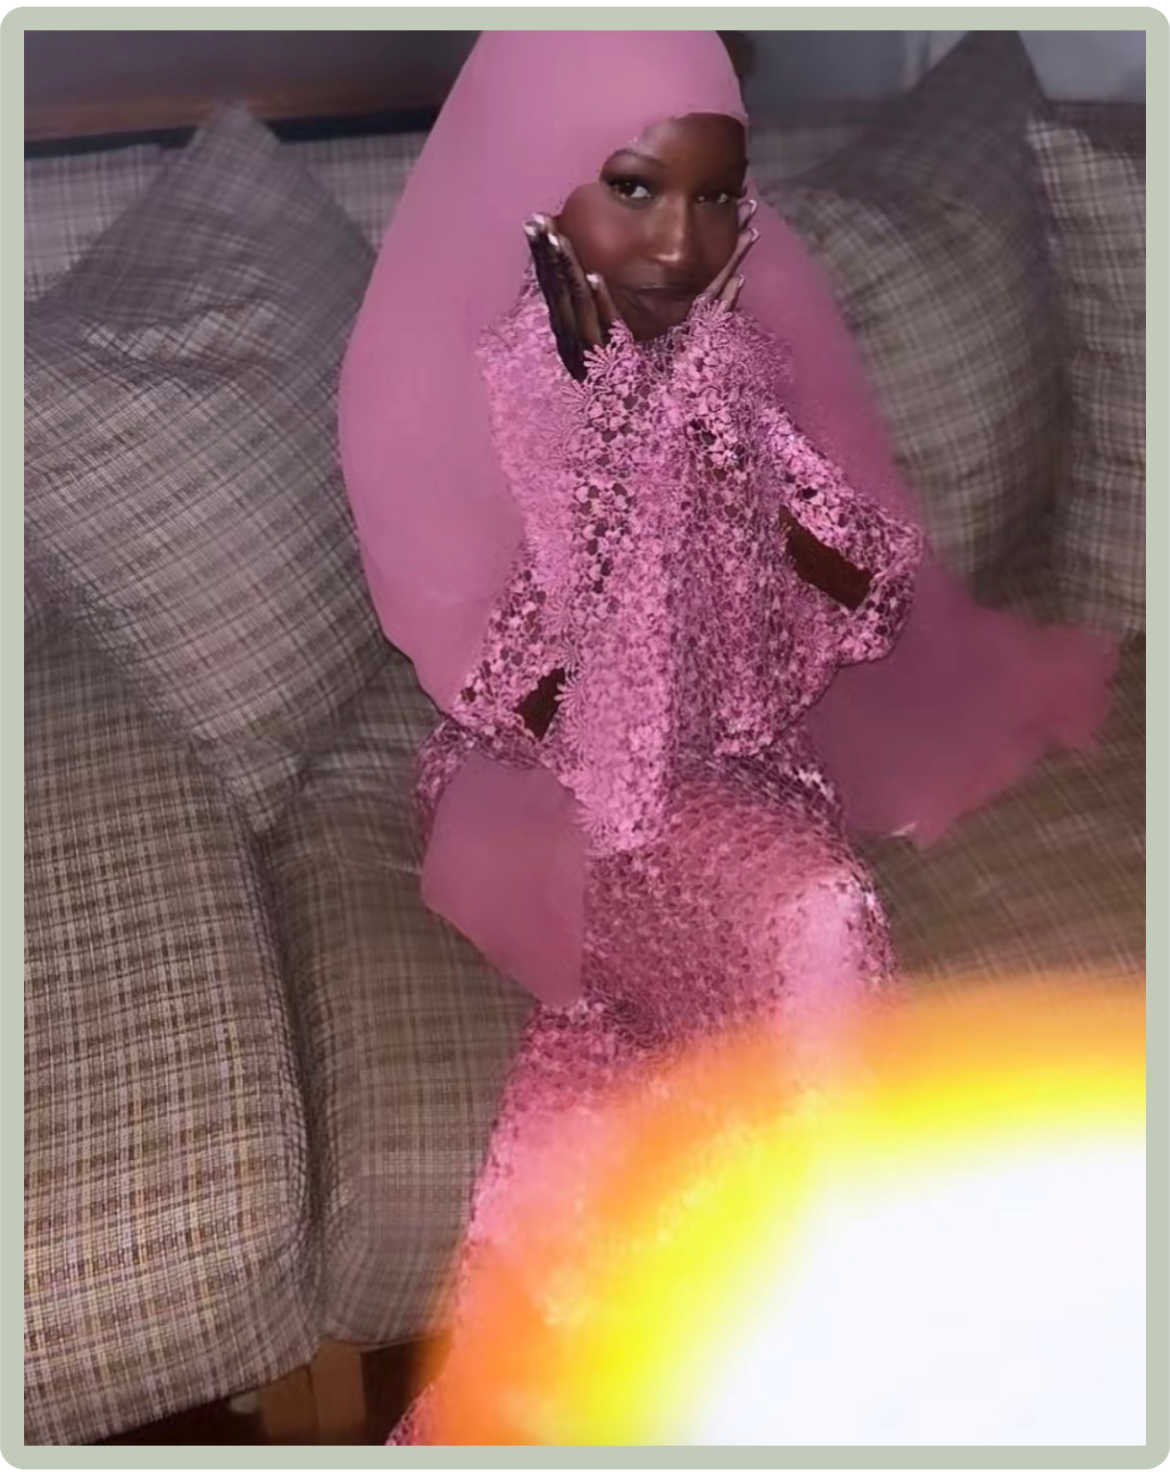
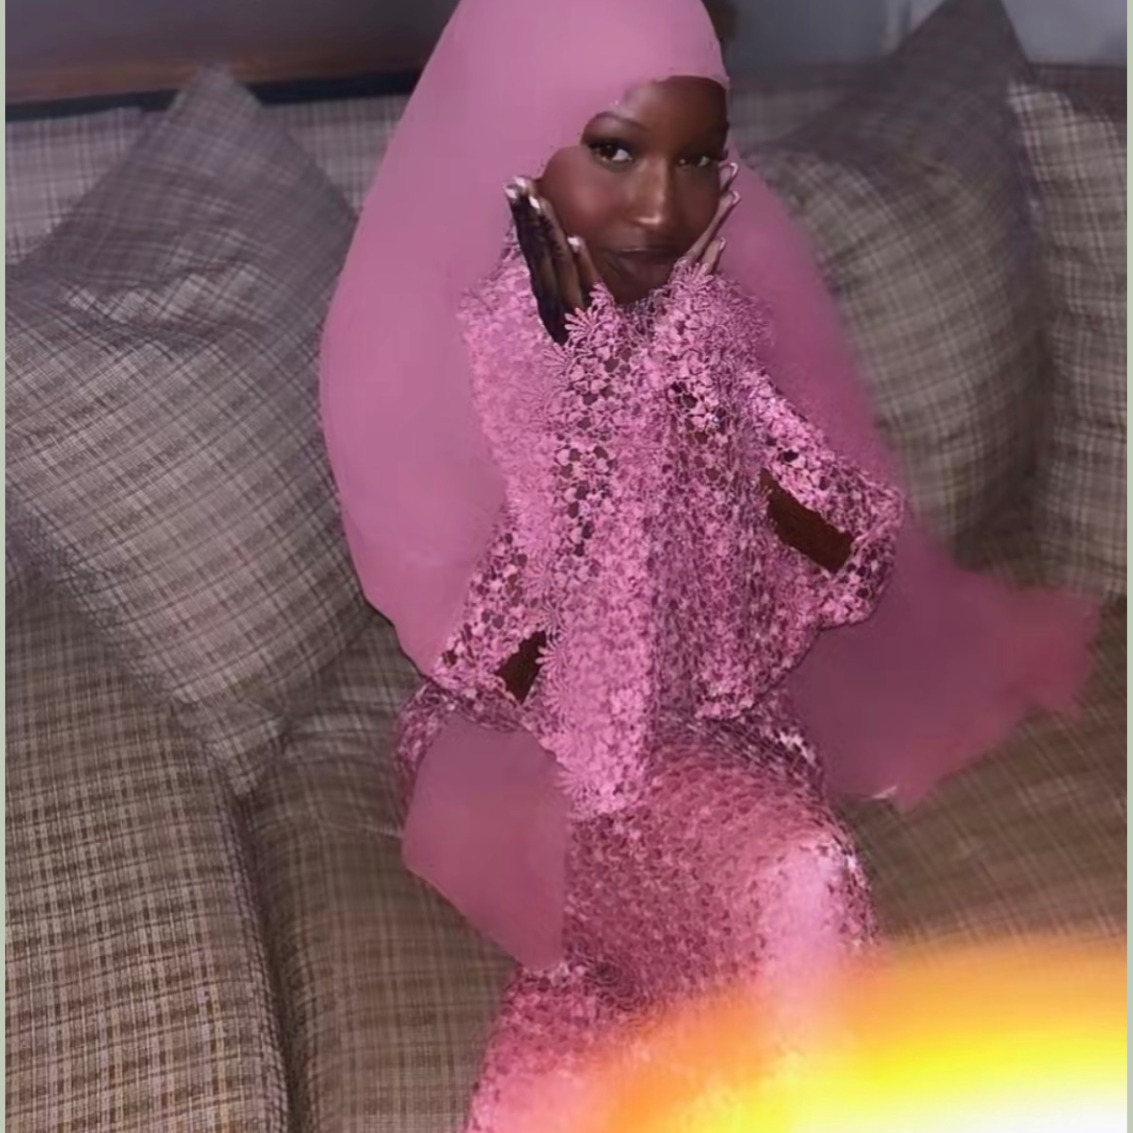
Affirmations fixed (#53)

diff --git a/src/pages/Affirmations.html b/src/pages/Affirmations.html
@@ -73,6 +73,9 @@
           <p>"I am loved and worthy".</p>
           <p>"I love and accept myself unconditionally."</p>
           <p>"I am comfortable in my own skin."</p>
+          <button class="btn btn-circle">
+            <svg xmlns="http://www.w3.org/2000/svg" fill="none" viewBox="0 0 24 24" stroke-width="2.5" stroke="currentColor" class="size-[1.2em]"><path stroke-linecap="round" stroke-linejoin="round" d="M21 8.25c0-2.485-2.099-4.5-4.688-4.5-1.935 0-3.597 1.126-4.312 2.733-.715-1.607-2.377-2.733-4.313-2.733C5.1 3.75 3 5.765 3 8.25c0 7.22 9 12 9 12s9-4.78 9-12Z" /></svg>
+          </button>
         </div>
         <figure>
           <img
@@ -87,6 +90,9 @@
           <p>"I alone hold the truth of who I am."</p>
           <p>"I am capable of doing hard things."</p>
           <p>"I forgive myself for past mistakes and grow stronger."</p>
+          <button class="btn btn-circle">
+            <svg xmlns="http://www.w3.org/2000/svg" fill="none" viewBox="0 0 24 24" stroke-width="2.5" stroke="currentColor" class="size-[1.2em]"><path stroke-linecap="round" stroke-linejoin="round" d="M21 8.25c0-2.485-2.099-4.5-4.688-4.5-1.935 0-3.597 1.126-4.312 2.733-.715-1.607-2.377-2.733-4.313-2.733C5.1 3.75 3 5.765 3 8.25c0 7.22 9 12 9 12s9-4.78 9-12Z" /></svg>
+          </button>
         </div>
         <figure>
           <img
@@ -101,6 +107,9 @@
           <p>"I am allowed to ask for what I want and what I need."</p>
           <p>"Abundance flows to me easily & steadily."</p>
           <p>"The universe sends more and more abundance my way."</p>
+          <button class="btn btn-circle">
+            <svg xmlns="http://www.w3.org/2000/svg" fill="none" viewBox="0 0 24 24" stroke-width="2.5" stroke="currentColor" class="size-[1.2em]"><path stroke-linecap="round" stroke-linejoin="round" d="M21 8.25c0-2.485-2.099-4.5-4.688-4.5-1.935 0-3.597 1.126-4.312 2.733-.715-1.607-2.377-2.733-4.313-2.733C5.1 3.75 3 5.765 3 8.25c0 7.22 9 12 9 12s9-4.78 9-12Z" /></svg>
+          </button>
         </div>
         <figure>
           <img
@@ -111,10 +120,13 @@
 
       <div class="card bg-secondary w-96 shadow-sm">
         <div class="card-body">
-          <h2 class="card-title text-primary-content cinzel">Anxiety & Stress relief</h2>
+          <h2 class="card-title text-primary-content cinzel">Anxiety & Stress Relief</h2>
           <p>"I breathe in peace."</p>
           <p>"I breathe in peace and exhale stress."</p>
           <p>"I am grounded, centered, and at peace."</p>
+          <button class="btn btn-circle">
+            <svg xmlns="http://www.w3.org/2000/svg" fill="none" viewBox="0 0 24 24" stroke-width="2.5" stroke="currentColor" class="size-[1.2em]"><path stroke-linecap="round" stroke-linejoin="round" d="M21 8.25c0-2.485-2.099-4.5-4.688-4.5-1.935 0-3.597 1.126-4.312 2.733-.715-1.607-2.377-2.733-4.313-2.733C5.1 3.75 3 5.765 3 8.25c0 7.22 9 12 9 12s9-4.78 9-12Z" /></svg>
+          </button>
         </div>
         <figure>
           <img
@@ -132,6 +144,9 @@
             <p>"The groundwork for all happiness is health."</p>
             <p>"I release the need for more and embrace the beauty of now."</p>
             <p>"I am happy, healthy, wealthy, and wise."</p>
+            <button class="btn btn-circle">
+                <svg xmlns="http://www.w3.org/2000/svg" fill="none" viewBox="0 0 24 24" stroke-width="2.5" stroke="currentColor" class="size-[1.2em]"><path stroke-linecap="round" stroke-linejoin="round" d="M21 8.25c0-2.485-2.099-4.5-4.688-4.5-1.935 0-3.597 1.126-4.312 2.733-.715-1.607-2.377-2.733-4.313-2.733C5.1 3.75 3 5.765 3 8.25c0 7.22 9 12 9 12s9-4.78 9-12Z" /></svg>
+              </button>
           </div>
           <figure>
             <img
@@ -146,6 +161,9 @@
               <p>"If you want to be happy, be."</p>
               <p>I choose happiness and positivity every day."</p>
               <p>"I am a magnet for my dreams and goals."</p>
+              <button class="btn btn-circle">
+                <svg xmlns="http://www.w3.org/2000/svg" fill="none" viewBox="0 0 24 24" stroke-width="2.5" stroke="currentColor" class="size-[1.2em]"><path stroke-linecap="round" stroke-linejoin="round" d="M21 8.25c0-2.485-2.099-4.5-4.688-4.5-1.935 0-3.597 1.126-4.312 2.733-.715-1.607-2.377-2.733-4.313-2.733C5.1 3.75 3 5.765 3 8.25c0 7.22 9 12 9 12s9-4.78 9-12Z" /></svg>
+              </button>
             </div>
             <figure>
               <img
@@ -160,6 +178,9 @@
               <p>"You are the only one who can limit your greatness."</p>
               <p>"I am driven to succeed."</p>
               <p>"I am the architect of my destiny."</p>
+              <button class="btn btn-circle">
+                <svg xmlns="http://www.w3.org/2000/svg" fill="none" viewBox="0 0 24 24" stroke-width="2.5" stroke="currentColor" class="size-[1.2em]"><path stroke-linecap="round" stroke-linejoin="round" d="M21 8.25c0-2.485-2.099-4.5-4.688-4.5-1.935 0-3.597 1.126-4.312 2.733-.715-1.607-2.377-2.733-4.313-2.733C5.1 3.75 3 5.765 3 8.25c0 7.22 9 12 9 12s9-4.78 9-12Z" /></svg>
+              </button>
             </div>
             <figure>
               <img
@@ -174,6 +195,9 @@
               <p>"Everything in moderation, including moderation."</p>
               <p> "I allow myself to evolve".</p>
               <p>"I am flexible and open to life's flow."</p>
+              <button class="btn btn-circle">
+                <svg xmlns="http://www.w3.org/2000/svg" fill="none" viewBox="0 0 24 24" stroke-width="2.5" stroke="currentColor" class="size-[1.2em]"><path stroke-linecap="round" stroke-linejoin="round" d="M21 8.25c0-2.485-2.099-4.5-4.688-4.5-1.935 0-3.597 1.126-4.312 2.733-.715-1.607-2.377-2.733-4.313-2.733C5.1 3.75 3 5.765 3 8.25c0 7.22 9 12 9 12s9-4.78 9-12Z" /></svg>
+              </button>
             </div>
             <figure>
               <img

diff --git a/src/pages/about.html b/src/pages/about.html
@@ -56,7 +56,7 @@
     </div>
 
     <div tabindex="0" class="collapse collapse-open bg-primary border-base-200 border">
-        <div class="collapse-title text-primary-content cinzel">Learn More About BloomJoy!</div>
+        <div class="collapse-title text-primary-content cinzel">Meet The Founders!</div>
         <div class="collapse-content text-m text-primary-content cinzel2 ">
             BloomJoy started with a glue gun, a pile of colorful paper, and a simple idea: feeling good doesn't have to
             be complicated!
@@ -65,10 +65,10 @@
         </div>
     </div>
 
-    <div class="flex justify-between bg-secondary text-primary-content text-m cinzel2 px-12">
+    <div class="flex justify-between bg-secondary text-primary-content 500 text-shadow-m cinzel2 px-12">
         <div class="hover-3d">
             <!-- content -->
-            <figure class="w-70 rounded-2xl">
+            <figure class="w-80 rounded-2xl">
                 <img src="/src/assets/Onnjel.png" alt="Tailwind CSS 3D card" />
             </figure>
             <!-- 8 empty divs needed for the 3D effect -->
@@ -80,7 +80,7 @@
             <div></div>
             <div></div>
             <div></div>
-            <h1>Onnjel: Co-Founder & Head Coordinator</h1>
+            <h1>Onnjel, Co-Founder & Head Coordinator</h1>
         </div>
     
         <div class="hover-3d">
@@ -97,7 +97,7 @@
             <div></div>
             <div></div>
             <div></div>
-            <h1>Khadidiatou: Co-founder & Lead manager</h1>
+            <h1>Khadidiatou, Co-founder & Lead Manager</h1>
         </div>
     
         <div class="hover-3d">
@@ -114,14 +114,14 @@
             <div></div>
             <div></div>
             <div></div>
-            <h1>Anastasia: Co-Founder & Lead Designer</h1>
+            <h1>Anastasia, Co-Founder & Lead Designer</h1>
         </div>
     </div>
 
     <div class="flex w-full flex-col">
-        <div class="card bg-secondary rounded-box grid h-20 place-items-center text-m text-primary-content cinzel2">The founders, Onnjel, Khadidiatou, & Anastasia noticed whenever they felt stressed, they'd end up doodling, decorating old notebooks, or making little handmade gifts for friends. One day, after turning a plain phone case into a bright, flower covered masterpiece, someone asked, "Can you show me how to make one too?" Then someone else asked. And then someone else. Before they knew it, their tiny hobby had turned into something bigger.</div>
+        <div class="card bg-secondary rounded-box grid h-20 place-items-center text-m text-primary cinzel2">The founders, Onnjel, Khadidiatou, & Anastasia noticed whenever they felt stressed, they'd end up doodling, decorating old notebooks, or making little handmade gifts for friends. One day, after turning a plain phone case into a bright, flower covered masterpiece, someone asked, "Can you show me how to make one too?" Then someone else asked. And then someone else. Before they knew it, their tiny hobby had turned into something bigger.</div>
         <div class="divider bg-secondary"></div>
-        <div class="card bg-secondary rounded-box grid h-20 place-items-center text-m text-primary-content cinzel2">They realized something important-people weren't just buying cute crafts. They were smiling more. Laughing more. Taking a break from their busy, overwhelming lives. That's when BloomJoy was born. At bloomJoy, wellness isn't about strict routines or complicated rules. It's about slowing down and creating something with your own hands. Every product is designed to help someone relax and express themselves.
+        <div class="card bg-secondary rounded-box grid h-20 place-items-center text-m text-primary cinzel2">They realized something important-people weren't just buying cute crafts. They were smiling more. Laughing more. Taking a break from their busy, overwhelming lives. That's when BloomJoy was born. At bloomJoy, wellness isn't about strict routines or complicated rules. It's about slowing down and creating something with your own hands. Every product is designed to help someone relax and express themselves.
             The company grew from a small bedroom setup into a bright, welcoming space filled with craft kits, workshops, and endless inspiration. Friends started bringing friends. Families came in together. Even people who said "I'm not creative at all" left with something they were proud of.
         </div>
     </div>
